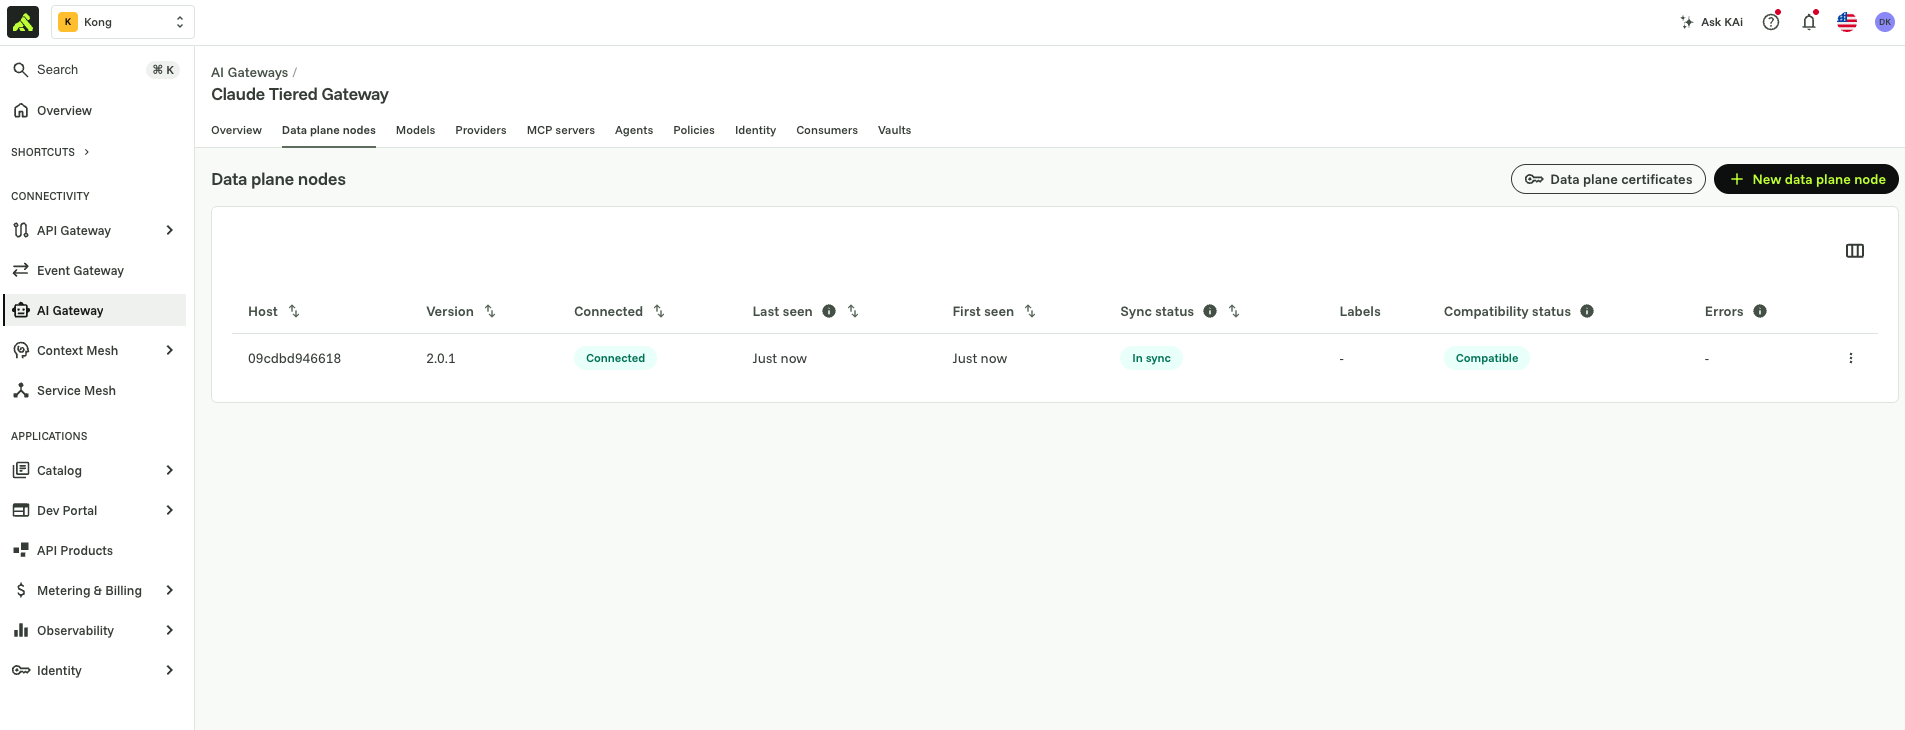
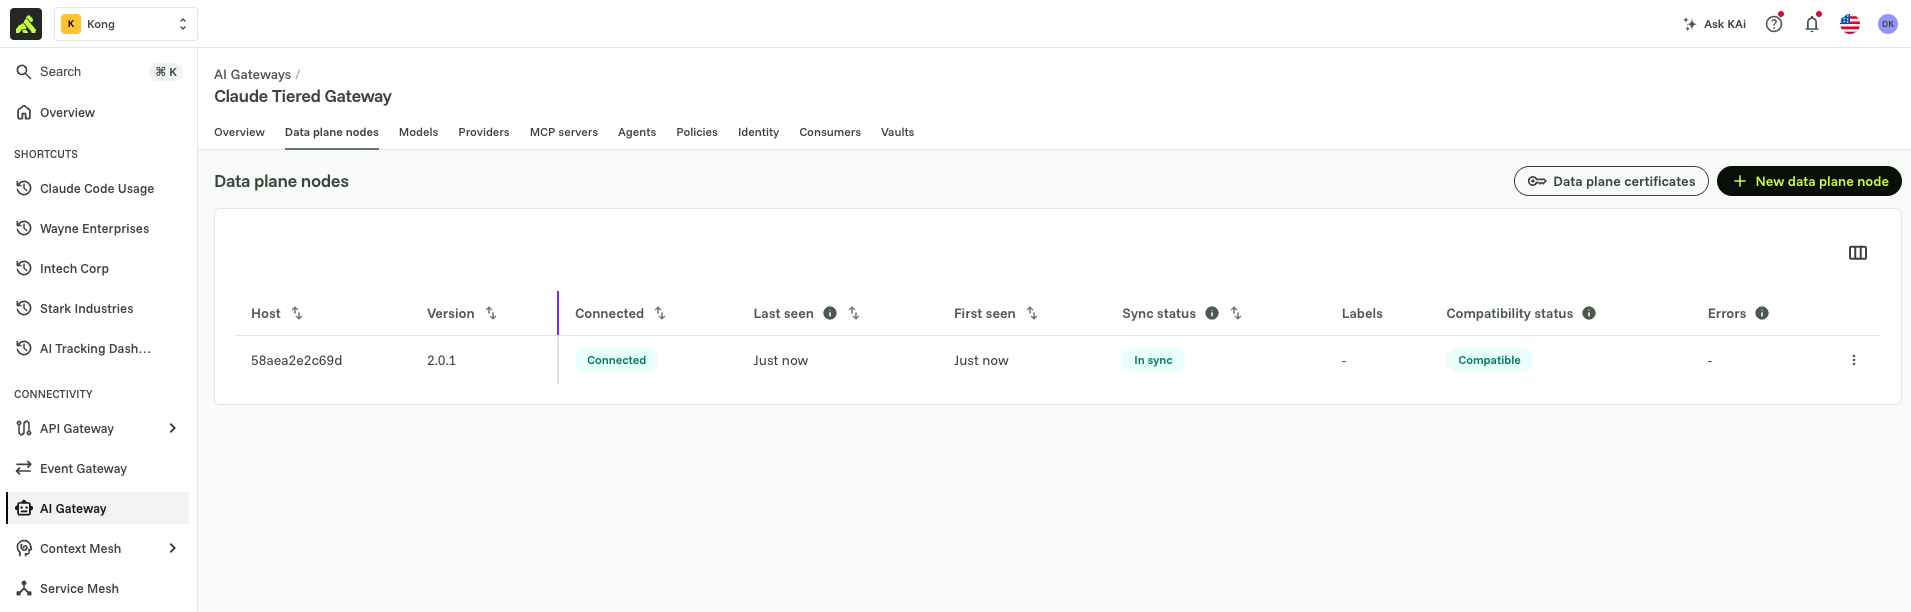
Fixing section 3

diff --git a/README.md b/README.md
@@ -30,9 +30,9 @@ reference, with its own README.
 - [What you'll build](#what-youll-build)
 - [Prerequisites](#prerequisites)
 - [Steps](#steps)
-  - [1. Deploy the gateway](#1-deploy-the-gateway)
-  - [2. Add Claude models](#2-add-claude-models)
-  - [3. Configure the vault](#3-configure-the-vault)
+  - [1. Create the control plane and deploy the gateway](#1-create-the-control-plane-and-deploy-the-gateway)
+  - [2. Configure the vault](#2-configure-the-vault)
+  - [3. Add Claude models](#3-add-claude-models)
   - [4. Enable SSO](#4-enable-sso)
   - [5. Filter models by group](#5-filter-models-by-group)
   - [6. Add a usage dashboard](#6-add-a-usage-dashboard)
@@ -90,6 +90,23 @@ Copy the env template and fill in the values above before starting:
 cp .env.example .env
 ```
 
+`kongctl` (the commands you'll run in every step below) doesn't read
+`.env` on its own — it looks for two specific environment variables,
+`KONGCTL_DEFAULT_KONNECT_PAT` and `KONGCTL_DEFAULT_KONNECT_REGION`. Load
+your `.env` values into those before running any `kongctl apply`/`diff`
+command:
+
+```bash
+set -a && source .env && set +a
+export KONGCTL_DEFAULT_KONNECT_PAT="$KONNECT_TOKEN"
+export KONGCTL_DEFAULT_KONNECT_REGION="$KONNECT_REGION"
+```
+
+Do this once per shell session — `scripts/bootstrap-vault.sh` (Step 2)
+sets these for itself internally, but the `kongctl apply -f ...`
+commands you run directly in Steps 1, 2, 4, 5, and 7 need them exported
+in your own shell.
+
 ### If you're using SSO
 
 Steps 4 and 5 add SSO and group-based access. Kong AI Gateway's identity
@@ -111,20 +128,29 @@ set up your OIDC app before you get there:
 4. Note the issuer URL, client ID, and client secret for `.env`.
 
 If you don't need SSO, skip Steps 4 and 5 and every model will be open
-once Step 2 is applied. Kong AI Gateway also ships a built-in identity
+once Step 3 is applied. Kong AI Gateway also ships a built-in identity
 provider, so you can still restrict access with simple API keys instead
 of a full OIDC flow.
 
 ## Steps
 
-Each step applies one file, cumulatively — every file is the full desired
-state for everything up to that point.
+Each step below applies one numbered YAML file (`1-gateway.yaml`,
+`2-claude-integration.yaml`, and so on) with `kongctl apply -f <file>`.
+These are declarative kongctl configs, not patches: every file is the
+**full desired state** of the control plane for everything up to and
+including that step, so `2-claude-integration.yaml` repeats everything
+`1-gateway.yaml` created and adds the model provider and models on top,
+`3-identity-provider.yaml` repeats that and adds the identity provider,
+and so on. `kongctl apply` reconciles the live control plane to match the
+file exactly — that's also why `git diff` between two consecutive step
+files shows precisely what that step introduced, and why `kongctl diff
+-f <file>` reports no changes once a file has already been applied (the
+"Verify" line under each step below).
 
-### 1. Deploy the gateway
+### 1. Create the control plane and deploy the gateway
 
-Creates the AI Gateway 2.0 control plane.
-
-![AI Gateway created in Konnect](images/step1-deploy/03-ai-gateway-created.png)
+Creates the AI Gateway 2.0 control plane, then connects a data plane to
+it so the gateway can actually proxy traffic.
 
 ```yaml
 ai_gateways:
@@ -136,6 +162,8 @@ ai_gateways:
 ```bash
 kongctl apply -f 1-gateway.yaml
 ```
+
+![AI Gateway created in Konnect](images/step1-deploy/03-ai-gateway-created.png)
 
 Then connect a data plane: in Konnect, open the gateway → **Data plane
 nodes** → **Configure data plane** → **Docker**. This generates a
@@ -159,9 +187,39 @@ docker run -d \
 The data plane proxies traffic on `8000` (HTTP) and `8443` (HTTPS). It
 shows as **Connected** in Konnect within a few seconds.
 
+![Data plane node connected in Konnect](images/step1-deploy/06-dataplane-connected.png)
+
 **Verify:** `kongctl diff -f 1-gateway.yaml` reports no changes.
 
-### 2. Add Claude models
+### 2. Configure the vault
+
+Every credential is referenced as `{vault://claude-gateway-vault/<key>}`,
+never inlined. One command sets up the vault and seeds it from `.env`:
+
+```bash
+scripts/bootstrap-vault.sh
+```
+
+This creates a Konnect config store and vault (if they don't already
+exist) and seeds the following keys. Re-run any time a value in `.env`
+changes — it updates in place.
+
+![Vault with secrets stored](images/step2-vault/02-vault-secrets.png)
+
+| Vault key | From `.env` |
+|-----------|-------------|
+| `anthropic-api-key` | `ANTHROPIC_API_KEY` |
+| `anthropic-api-key-header` | `ANTHROPIC_API_KEY_HEADER` |
+| `okta-issuer` | `OKTA_ISSUER` |
+| `okta-client-id` | `OKTA_CLIENT_ID` |
+| `okta-client-secret` | `OKTA_CLIENT_SECRET` |
+| `oidc-cache-tokens-salt` | `OIDC_CACHE_TOKENS_SALT` |
+
+Doing this before Step 3 means the model provider you add next can
+reference `{vault://claude-gateway-vault/anthropic-api-key}` immediately,
+instead of pointing at a secret that doesn't exist yet.
+
+### 3. Add Claude models
 
 Adds the model provider and one `ai_gateway_model` per Claude model, each
 behind `/anthropic`, distinguished by the `model` field in the request
@@ -202,32 +260,10 @@ models:
 kongctl apply -f 2-claude-integration.yaml
 ```
 
+![Claude models in Konnect](images/step3-models/01-models-list.png)
+
 **Verify:** `kongctl diff -f 2-claude-integration.yaml` reports no
 changes.
-
-### 3. Configure the vault
-
-Every credential is referenced as `{vault://claude-gateway-vault/<key>}`,
-never inlined. One command sets up the vault and seeds it from `.env`:
-
-```bash
-scripts/bootstrap-vault.sh
-```
-
-This creates a Konnect config store and vault (if they don't already
-exist) and seeds the following keys. Re-run any time a value in `.env`
-changes — it updates in place.
-
-![Vault with secrets stored](images/step3-vault/02-vault-secrets.png)
-
-| Vault key | From `.env` |
-|-----------|-------------|
-| `anthropic-api-key` | `ANTHROPIC_API_KEY` |
-| `anthropic-api-key-header` | `ANTHROPIC_API_KEY_HEADER` |
-| `okta-issuer` | `OKTA_ISSUER` |
-| `okta-client-id` | `OKTA_CLIENT_ID` |
-| `okta-client-secret` | `OKTA_CLIENT_SECRET` |
-| `oidc-cache-tokens-salt` | `OIDC_CACHE_TOKENS_SALT` |
 
 ### 4. Enable SSO
 
@@ -356,13 +392,13 @@ changes.
 ├── README.md
 ├── .env.example                    # copy to .env and fill in
 ├── 1-gateway.yaml                   # Step 1
-├── 2-claude-integration.yaml        # Step 2
+├── 2-claude-integration.yaml        # Step 3
 ├── 3-identity-provider.yaml         # Step 4
 ├── 6-per-group-model-listing.yaml   # Step 5
 ├── 5-dashboard.json                 # Step 6
 ├── 7-rate-limiting-policy.yaml      # Step 7
 ├── scripts/
-│   └── bootstrap-vault.sh           # Step 3
+│   └── bootstrap-vault.sh           # Step 2
 ├── images/                          # console screenshots
 ├── secrets/                         # local-only staging for real credentials (git-ignored)
 └── classic-kong-gateway/            # earlier classic-Kong-Gateway (1.x, decK) build

diff --git a/images/README.md b/images/README.md
@@ -5,9 +5,14 @@ Screenshots and diagrams referenced from `README.md`.
 - `step1-deploy/` — Konnect console walkthrough for Step 1 (generating a
   Personal Access Token, the created AI Gateway, and configuring/
   connecting a self-managed Docker data plane).
-- `step3-vault/` — Konnect console walkthrough for Step 3 (adding
+- `step2-vault/` — Konnect console walkthrough for Step 2 (adding
   `claude-gateway-vault` and storing secrets in it via the UI).
+- `step3-models/` — Konnect console walkthrough for Step 3 (the Claude
+  models listed under the AI Gateway's **Models** tab after applying
+  `2-claude-integration.yaml`).
+- `step5-dashboard/` — Konnect console walkthrough for Step 6 (the
+  imported usage dashboard).
 
-Add more subdirectories per step as you work through Steps 2–5 (Okta app
+Add more subdirectories per step as you work through Steps 4–7 (Okta app
 setup, consumer-group screens, etc.) and link them with relative paths,
 e.g. `![Okta app](images/step4-oidc/okta-app.png)`.
